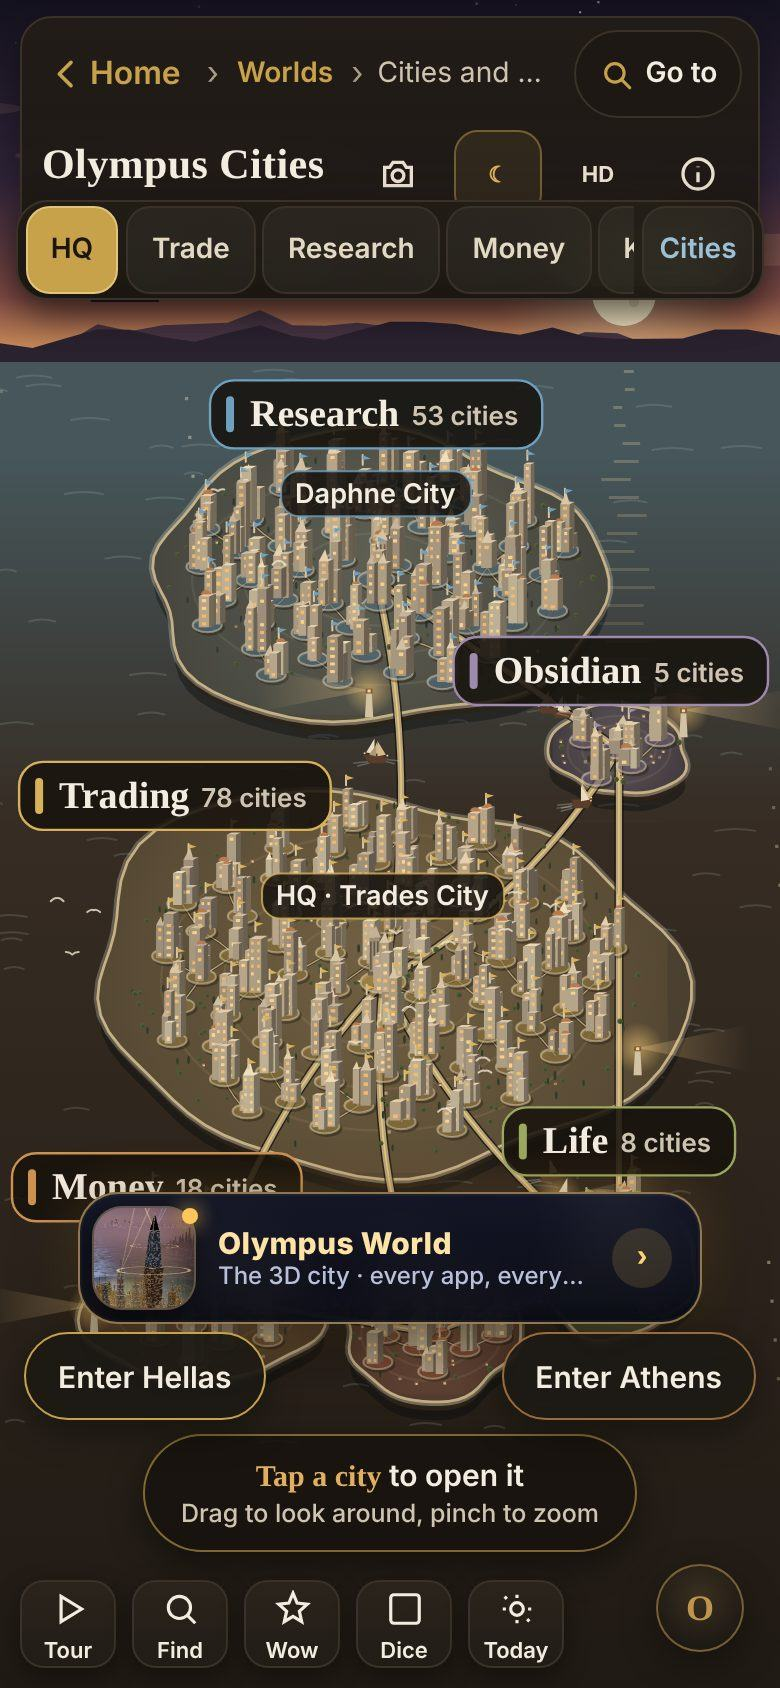
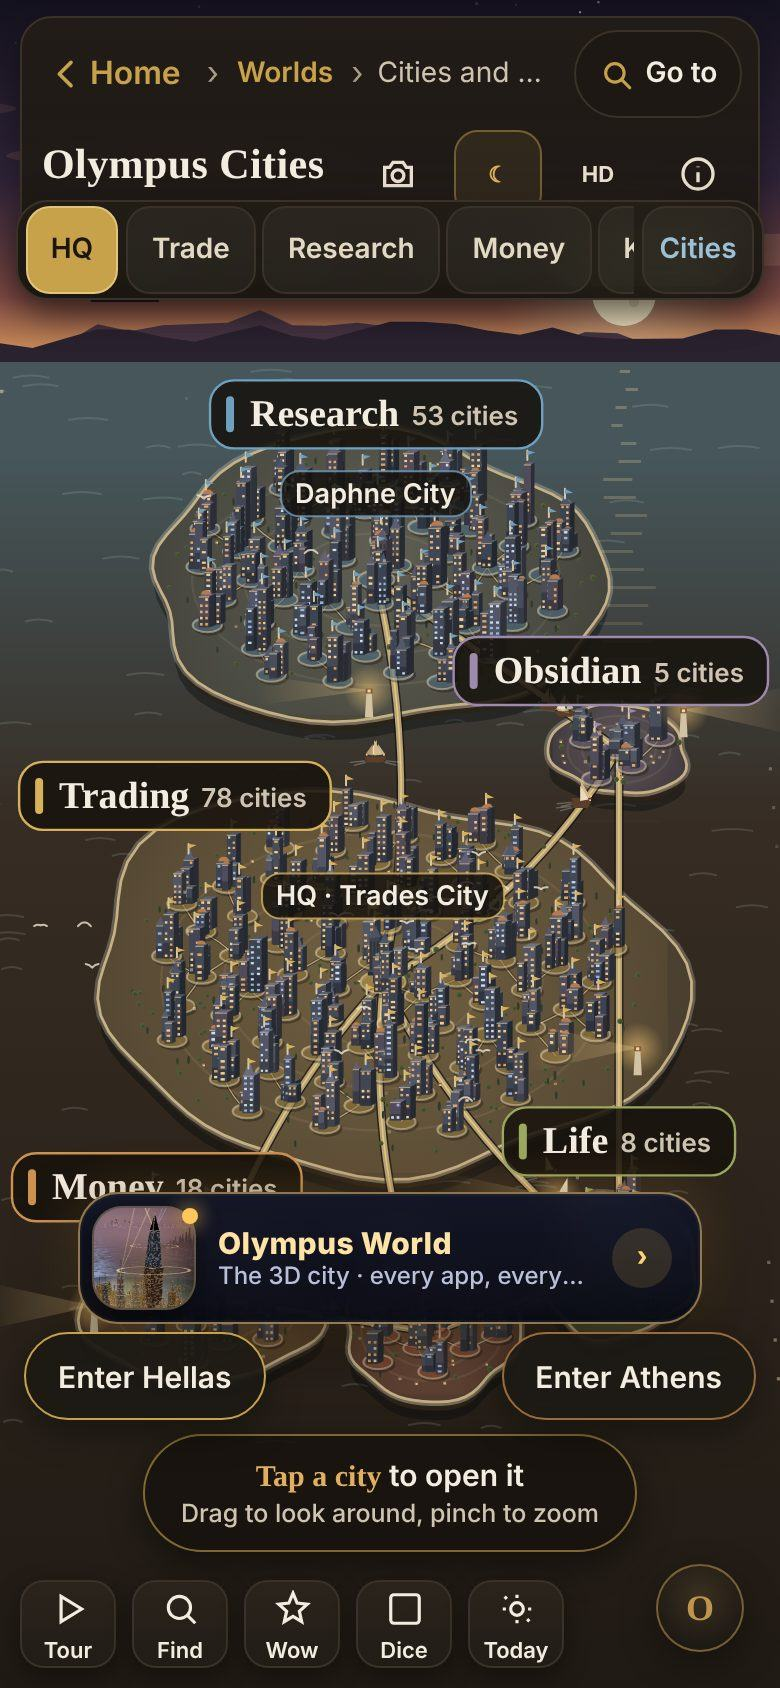
Cities island map: night stone and dark glass towers with warm / cool lit windows and a lit roof edge (not pale clay); agoramap g6, app o26
Claude-Session: https://claude.ai/code/session_01EwJ4kQCDHpVDa3iTnpihpy

diff --git a/tools/web_public/cities/agoramap.js b/tools/web_public/cities/agoramap.js
@@ -27,7 +27,8 @@ export const LOOK = {
   life: { tint: '#9ba85f', land: ['#59603f', '#3e4430'], name: 'Life' },
   obsidian: { tint: '#9d8aae', land: ['#574e50', '#3d3638'], name: 'Obsidian' },
 };
-const MARBLE = ['#bfae92', '#b09f86', '#c8b99d', '#a69680', '#c2ad90', '#b6a58a'];
+// revamp-cities 2026-11-20 (owner: "not some 2000's looking play-doh"): night stone and dark glass, not pale clay; warm and cool lit windows
+const MARBLE = ['#4d5262', '#444a5a', '#575b6b', '#4a4e5c', '#545060', '#3f4656'];
 const shade = (hex, k) => {
   const n = parseInt(hex.slice(1), 16);
   const f = (v) => Math.round(clamp(v * k, 0, 255));
@@ -512,16 +513,19 @@ export class AgoraMap {
       return;
     }
     g.fillStyle = shade(col, 0.95); g.fillRect(fx, top, w, h);
-    g.fillStyle = shade(col, 0.6); g.beginPath(); g.moveTo(fx + w, top); g.lineTo(fx + w + d, top - d * 0.5); g.lineTo(fx + w + d, y - d * 0.5); g.lineTo(fx + w, y); g.fill();
-    g.fillStyle = shade(col, 1.18); g.beginPath(); g.moveTo(fx, top); g.lineTo(fx + d, top - d * 0.5); g.lineTo(fx + w + d, top - d * 0.5); g.lineTo(fx + w, top); g.fill();
+    g.fillStyle = shade(col, 0.72); g.fillRect(fx, y - h * 0.35, w, h * 0.35);                 // the lower floors in the street's shadow
+    g.fillStyle = shade(col, 0.55); g.beginPath(); g.moveTo(fx + w, top); g.lineTo(fx + w + d, top - d * 0.5); g.lineTo(fx + w + d, y - d * 0.5); g.lineTo(fx + w, y); g.fill();
+    g.fillStyle = shade(col, 1.25); g.beginPath(); g.moveTo(fx, top); g.lineTo(fx + d, top - d * 0.5); g.lineTo(fx + w + d, top - d * 0.5); g.lineTo(fx + w, top); g.fill();
+    g.fillStyle = 'rgba(255,226,170,.55)'; g.fillRect(fx, top, w, Math.max(0.6, sc * 0.35));    // the roof edge catches the light
     if (b.kind === 'dome') { g.fillStyle = '#b97b4d'; g.beginPath(); g.ellipse(x + d * 0.4, top - d * 0.35, w * 0.5, w * 0.42, 0, Math.PI, TAU); g.fill(); }
     if (b.kind === 'obelisk') { g.fillStyle = shade(col, 1.2); g.beginPath(); g.moveTo(fx, top); g.lineTo(x + d * 0.3, top - w * 1.2); g.lineTo(fx + w, top); g.fill(); }
     if (w * 1 > 3.2) {                                           // lantern windows (only when big enough to read)
-      const cols = Math.max(1, Math.floor(w / 2.8)), rows = Math.max(2, Math.floor(h / 3.6)), ww = Math.max(0.9, w / cols * 0.42), wh = Math.max(1, h / rows * 0.4);
+      const cols = Math.max(1, Math.floor(w / 2.2)), rows = Math.max(2, Math.floor(h / 2.6)), ww = Math.max(0.8, w / cols * 0.5), wh = Math.max(0.8, h / rows * 0.42);
+      const cool = (b.seed & 3) === 0;                                                       // offices: cool white, homes: warm
       let z = b.seed;
       for (let r2 = 0; r2 < rows; r2++) for (let c2 = 0; c2 < cols; c2++) {
         z = (Math.imul(z, 1103515245) + 12345) >>> 0;
-        if ((z >>> 16) / 65536 < lit) { g.fillStyle = (z & 8) ? 'rgba(255,214,140,.92)' : 'rgba(255,190,105,.85)'; g.fillRect(fx + (c2 + 0.3) * (w / cols), top + (r2 + 0.35) * (h / rows), ww, wh); }
+        if ((z >>> 16) / 65536 < lit * 0.85) { g.fillStyle = cool ? ((z & 8) ? 'rgba(214,232,255,.92)' : 'rgba(176,206,250,.8)') : ((z & 8) ? 'rgba(255,214,140,.95)' : 'rgba(255,186,98,.85)'); g.fillRect(fx + (c2 + 0.25) * (w / cols), top + (r2 + 0.3) * (h / rows), ww, wh); }
       }
     }
   }

diff --git a/tools/web_public/cities/app.js b/tools/web_public/cities/app.js
@@ -14,7 +14,7 @@ import { cityResultPage, planCityNetwork } from './network-layout.js?v=n1';
 import { openDistrictWorld } from './district-world.js?v=d3';
 import { insight } from './insight.js';
 import { randomSpec, seedDataset, newSeed, cleanSeed } from './procedural.js';
-import { AgoraMap } from './agoramap.js?v=g5';
+import { AgoraMap } from './agoramap.js?v=g6';
 // Do not load/compile the 3D pipeline until this device has a usable context.
 let Stage, TIERS, BUDGETS, Rig, makePath, safeFlight, warmHex = (h) => h;
 

diff --git a/tools/web_public/cities/index.html b/tools/web_public/cities/index.html
@@ -318,7 +318,7 @@ async function recover() {
 }
 // Module import settles before its asynchronous boot does. Watch readiness itself.
 setTimeout(recover, 18000);
-import('./app.js?v=o25').catch(recover);
+import('./app.js?v=o26').catch(recover);
 </script>
 <script type="module" src="./athens-entry.js?v=t5"></script>
 <script type="module" src="./hellas-entry.js?v=h1"></script>

diff --git a/research/handoff/2026-11-20/revamp-cities/REPORT.md b/research/handoff/2026-11-20/revamp-cities/REPORT.md
@@ -1,0 +1,12 @@
+# revamp-cities REPORT (2026-11-20, branch night-revamp-cities)
+
+1. **Olympus World rebuilt** (cities/world): real towers (octagons, setbacks, spires, pyramid caps) in 2 draws + their reflections; lit floors that stay clean at phone size; a downtown skyline; street lamps, light-trail traffic, 18 satellite towns + a far shore of cities, clouds, moon, aircraft.
+2. **Sky follows the market clock** (ET): NQ cash session = golden hour, the hour round it = blue hour, else night (`?sky=night|blue|dusk` to force).
+3. **Displays**: LED ticker rings round the Gate, ZEUS, Kalshi bot and Business show the live learning line, the PC / trade status and district counts.
+4. **Cities front**: the "Olympus World" door is now a card with a real frame of the 3D city; the World's loading screen is a photo of the city (push-in).
+5. **Speed**: JS per frame median 0.3 ms, worst 15 ms, 0 long tasks over 50 ms in 300 frames after load (two ~70 ms during load); GPU about 1.1-1.5x the old World in software GL; DPR <= 2, auto quality step-down, reduced motion = no flights, still LEDs, no aircraft.
+6. **Bug found and fixed**: reflections made white/rainbow blobs (exp() overflow -> NaN in bloom) on the high tier.
+7. Tests: test_world_page static 12/12 (5 new pins for the look); browser run: see bottom. Data City + intro/warp: see below.
+8. Lead to wire: LEAD_WIRES.md (cache bump; recommended: Cities door opens the World).
+
+Shots (390x844 @2x): world-0-before, world-1-night, world-2-golden-hour, world-3-street, world-4-led-display, cities-0-before, cities-1-world-door. Video: world.mp4.
